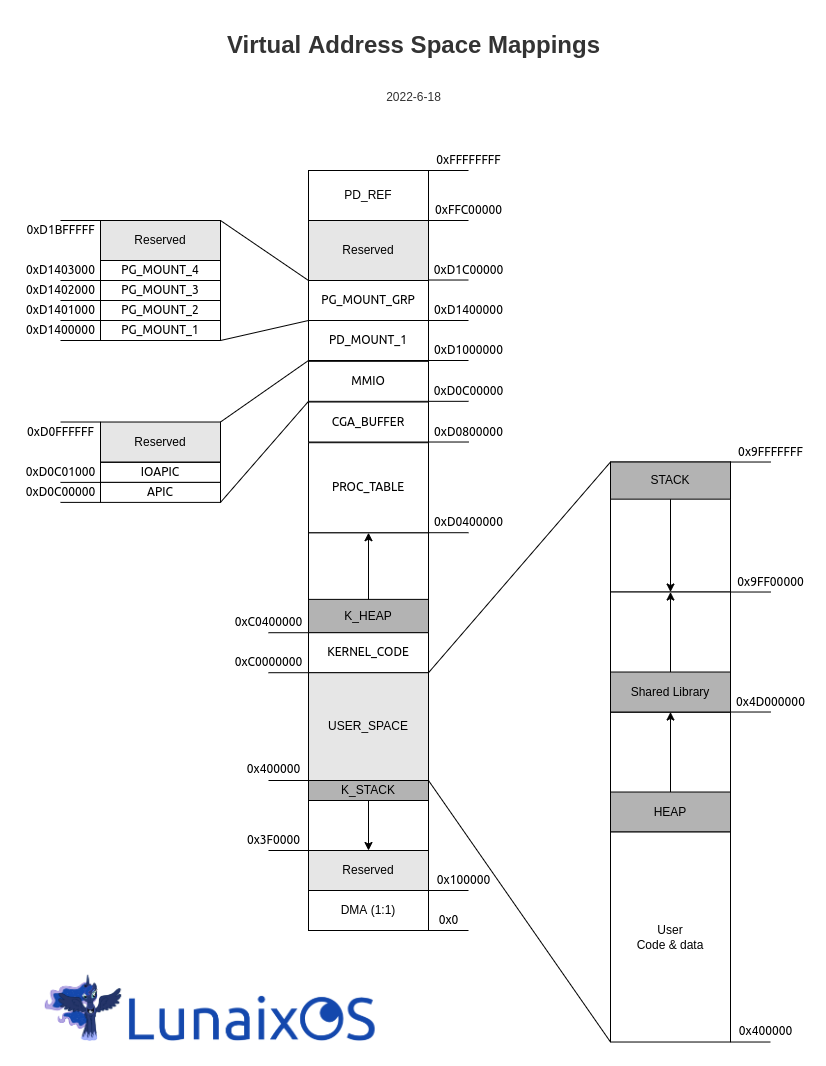
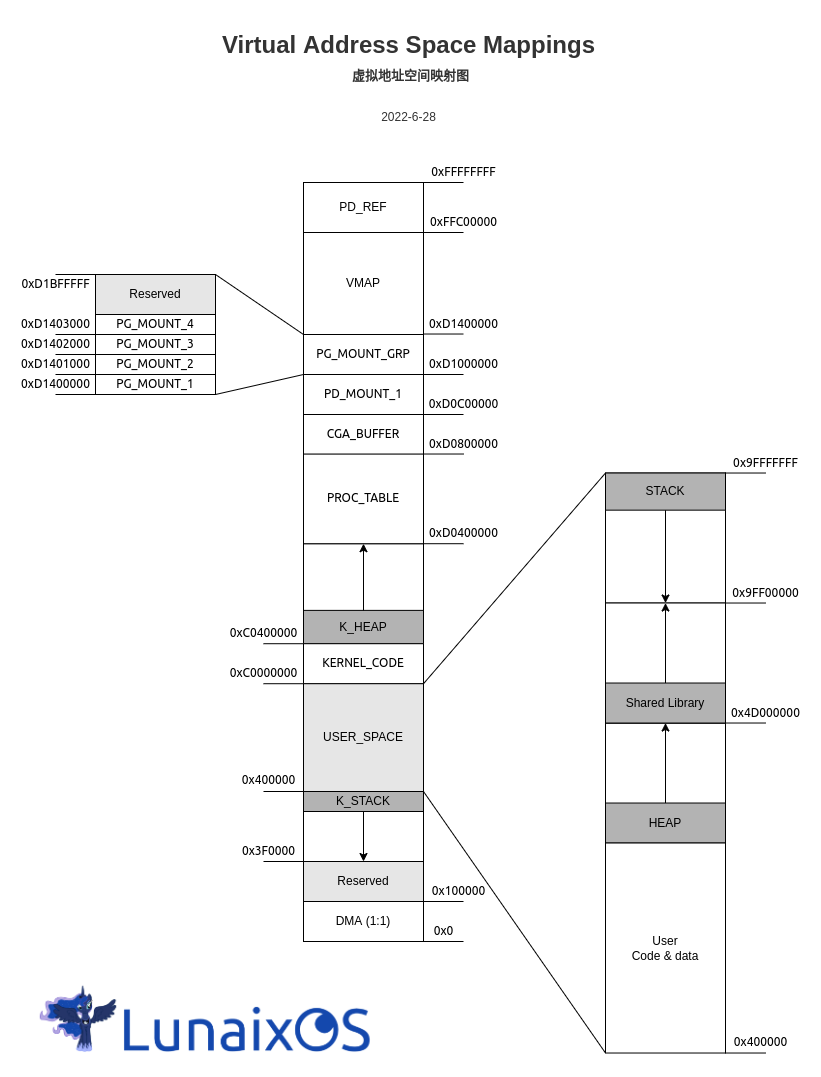
feat: vmm_vmap/ioremap/iounmap to make MMIO more flexible and easy fix: flush the screen when fault occurs. chore: update the memory map accordingly.

diff --git a/lunaix-os/kernel/mm/vmap.c b/lunaix-os/kernel/mm/vmap.c
@@ -1,0 +1,64 @@
+#include <lunaix/mm/pmm.h>
+#include <lunaix/mm/vmm.h>
+#include <lunaix/spike.h>
+
+#define VMAP_START PG_MOUNT_BASE + MEM_4MB
+#define VMAP_END PD_REFERENCED
+
+static uintptr_t start = VMAP_START;
+
+void*
+vmm_vmap(uintptr_t paddr, size_t size, pt_attr attr, pp_attr_t pattr)
+{
+    // next fit
+    assert_msg((paddr & 0xfff) == 0, "vmap: bad alignment");
+    size = ROUNDUP(size, PG_SIZE);
+
+    uintptr_t current_addr = start;
+    size_t examed_size = 0, wrapped = 0;
+    x86_page_table* pd = (x86_page_table*)L1_BASE_VADDR;
+
+    while (!wrapped || current_addr >= start) {
+        size_t l1inx = L1_INDEX(current_addr);
+        if (!(pd->entry[l1inx])) {
+            // empty 4mb region
+            examed_size += MEM_4MB;
+            current_addr = (current_addr & 0xffc00000) + MEM_4MB;
+        } else {
+            x86_page_table* ptd = (x86_page_table*)(L2_VADDR(l1inx));
+            size_t i = L2_INDEX(current_addr);
+            for (; i < 1024 && examed_size < size; i++) {
+                if (!ptd->entry[i]) {
+                    examed_size += PG_SIZE;
+                } else if (examed_size) {
+                    // found a discontinuity, start from beginning
+                    examed_size = 0;
+                    i++;
+                    break;
+                }
+            }
+            current_addr += i << 12;
+        }
+
+        if (examed_size >= size) {
+            goto done;
+        }
+
+        if (current_addr >= VMAP_END) {
+            wrapped = 1;
+            current_addr = VMAP_START;
+        }
+    }
+    panick("vmm: out of memory");
+
+done:
+    uintptr_t alloc_begin = current_addr - examed_size;
+    for (size_t i = 0; i < size; i += PG_SIZE) {
+        vmm_set_mapping(
+          PD_REFERENCED, alloc_begin + i, paddr + i, PG_PREM_RW, 0);
+        pmm_ref_page(KERNEL_PID, paddr + i);
+    }
+    start = alloc_begin + size;
+
+    return (void*)alloc_begin;
+}

diff --git a/lunaix-os/hal/apic.c b/lunaix-os/hal/apic.c
@@ -15,10 +15,13 @@
 
 #include <arch/x86/interrupts.h>
 
+#include <lunaix/mm/mmio.h>
 #include <lunaix/spike.h>
 #include <lunaix/syslog.h>
 
 LOG_MODULE("APIC")
+
+static volatile uintptr_t _apic_base;
 
 void
 apic_setup_lvts();
@@ -36,10 +39,12 @@ apic_init()
     // As we are going to use APIC, disable the old 8259 PIC
     pic_disable();
 
+    _apic_base = ioremap(__APIC_BASE_PADDR, 4096);
+
     // Hardware enable the APIC
     // By setting bit 11 of IA32_APIC_BASE register
-    // Note: After this point, you can't disable then re-enable it until a reset
-    // (i.e., reboot)
+    // Note: After this point, you can't disable then re-enable it until a
+    // reset (i.e., reboot)
     asm volatile("movl %0, %%ecx\n"
                  "rdmsr\n"
                  "orl %1, %%eax\n"
@@ -90,4 +95,22 @@ apic_setup_lvts()
     apic_write_reg(APIC_LVT_LINT0, LVT_ENTRY_LINT0(APIC_LINT0_IV));
     apic_write_reg(APIC_LVT_LINT1, LVT_ENTRY_LINT1);
     apic_write_reg(APIC_LVT_ERROR, LVT_ENTRY_ERROR(APIC_ERROR_IV));
+}
+
+void
+apic_done_servicing()
+{
+    *(unsigned int*)(_apic_base + APIC_EOI) = 0;
+}
+
+unsigned int
+apic_read_reg(unsigned int reg)
+{
+    return *(unsigned int*)(_apic_base + (reg));
+}
+
+void
+apic_write_reg(unsigned int reg, unsigned int val)
+{
+    *(unsigned int*)(_apic_base + reg) = val;
 }

diff --git a/lunaix-os/kernel/asm/x86/intr_routines.c b/lunaix-os/kernel/asm/x86/intr_routines.c
@@ -30,6 +30,7 @@ __print_panic_msg(const char* msg, const isr_param* param)
 void
 intr_routine_divide_zero(const isr_param* param)
 {
+    console_flush();
     __print_panic_msg("Divide by zero!", param);
     spin();
 }
@@ -40,7 +41,7 @@ intr_routine_general_protection(const isr_param* param)
     kprintf(KERROR "Pid: %d\n", __current->pid);
     kprintf(KERROR "Addr: %p\n", (&debug_resv)[0]);
     kprintf(KERROR "Expected: %p\n", (&debug_resv)[1]);
-    console_flush(0);
+    console_flush();
     __print_panic_msg("General Protection", param);
     spin();
 }
@@ -48,6 +49,7 @@ intr_routine_general_protection(const isr_param* param)
 void
 intr_routine_sys_panic(const isr_param* param)
 {
+    console_flush();
     __print_panic_msg((char*)(param->registers.edi), param);
     spin();
 }
@@ -55,6 +57,7 @@ intr_routine_sys_panic(const isr_param* param)
 void
 intr_routine_fallback(const isr_param* param)
 {
+    console_flush();
     __print_panic_msg("Unknown Interrupt", param);
     spin();
 }
@@ -76,6 +79,7 @@ intr_routine_apic_error(const isr_param* param)
     uint32_t error_reg = apic_read_reg(APIC_ESR);
     char buf[32];
     sprintf(buf, "APIC error, ESR=0x%x", error_reg);
+    console_flush();
     __print_panic_msg(buf, param);
     spin();
 }

diff --git a/lunaix-os/hal/ioapic.c b/lunaix-os/hal/ioapic.c
@@ -2,9 +2,12 @@
 #include <hal/acpi/acpi.h>
 #include <hal/ioapic.h>
 #include <lunaix/common.h>
+#include <lunaix/mm/mmio.h>
 
-#define IOAPIC_REG_SEL *((volatile uint32_t*)(MMIO_IOAPIC + IOAPIC_IOREGSEL))
-#define IOAPIC_REG_WIN *((volatile uint32_t*)(MMIO_IOAPIC + IOAPIC_IOWIN))
+#define IOAPIC_REG_SEL *((volatile uint32_t*)(_ioapic_base + IOAPIC_IOREGSEL))
+#define IOAPIC_REG_WIN *((volatile uint32_t*)(_ioapic_base + IOAPIC_IOWIN))
+
+static volatile uintptr_t _ioapic_base;
 
 uint8_t
 ioapic_get_irq(acpi_context* acpi_ctx, uint8_t old_irq);
@@ -15,6 +18,8 @@ ioapic_init()
     // Remapping the IRQs
 
     acpi_context* acpi_ctx = acpi_get_context();
+
+    _ioapic_base = ioremap(acpi_ctx->madt.ioapic->ioapic_addr & ~0xfff, 4096);
 
     // Remap the IRQ 8 (rtc timer's vector) to RTC_TIMER_IV in ioapic
     //       (Remarks IRQ 8 is pin INTIN8)

diff --git a/lunaix-os/kernel/proc0.c b/lunaix-os/kernel/proc0.c
@@ -115,16 +115,6 @@ init_platform()
     lock_reserved_memory();
 
     acpi_init(_k_init_mb_info);
-    uintptr_t ioapic_addr = acpi_get_context()->madt.ioapic->ioapic_addr;
-    pmm_mark_page_occupied(
-      KERNEL_PID, FLOOR(__APIC_BASE_PADDR, PG_SIZE_BITS), 0);
-    pmm_mark_page_occupied(KERNEL_PID, FLOOR(ioapic_addr, PG_SIZE_BITS), 0);
-
-    vmm_set_mapping(
-      PD_REFERENCED, MMIO_APIC, __APIC_BASE_PADDR, PG_PREM_RW, VMAP_NULL);
-    vmm_set_mapping(
-      PD_REFERENCED, MMIO_IOAPIC, ioapic_addr, PG_PREM_RW, VMAP_NULL);
-
     apic_init();
     ioapic_init();
     timer_init(SYS_TIMER_FREQUENCY_HZ);
@@ -136,6 +126,7 @@ init_platform()
     syscall_install();
 
     console_start_flushing();
+    console_flush();
 
     unlock_reserved_memory();
 

diff --git a/lunaix-os/includes/hal/apic.h b/lunaix-os/includes/hal/apic.h
@@ -66,8 +66,11 @@
 
 #define APIC_PRIORITY(cls, subcls) (((cls) << 4) | (subcls))
 
-#define apic_read_reg(reg) (*(uint32_t*)(MMIO_APIC + (reg)))
-#define apic_write_reg(reg, val) (*(uint32_t*)(MMIO_APIC + (reg)) = (val))
+unsigned int
+apic_read_reg(unsigned int reg);
+
+void
+apic_write_reg(unsigned int reg, unsigned int val);
 
 void
 apic_init();
@@ -77,10 +80,7 @@ apic_init();
  * This will issue a write action to EOI register.
  *
  */
-inline static void
-apic_done_servicing()
-{
-    apic_write_reg(APIC_EOI, 0);
-}
+void
+apic_done_servicing();
 
 #endif /* __LUNAIX_APIC_H */

diff --git a/lunaix-os/includes/lunaix/mm/vmm.h b/lunaix-os/includes/lunaix/mm/vmm.h
@@ -104,6 +104,19 @@ void*
 vmm_unmount_pd(uintptr_t mnt);
 
 void*
+vmm_ioremap(uintptr_t paddr, size_t size);
+
+void*
 vmm_next_free(uintptr_t start, int options);
+
+/**
+ * @brief 将连续的物理地址空间映射到内核虚拟地址空间
+ *
+ * @param paddr 物理地址空间的基地址
+ * @param size 物理地址空间的大小
+ * @return void*
+ */
+void*
+vmm_vmap(uintptr_t paddr, size_t size, pt_attr attr, uint32_t pattr);
 
 #endif /* __LUNAIX_VMM_H */

diff --git a/lunaix-os/kernel/mm/mmio.c b/lunaix-os/kernel/mm/mmio.c
@@ -1,0 +1,18 @@
+#include <lunaix/mm/mmio.h>
+#include <lunaix/mm/pmm.h>
+#include <lunaix/mm/vmm.h>
+
+void*
+ioremap(uintptr_t paddr, uint32_t size)
+{
+    return vmm_vmap(paddr, size, PG_PREM_RW, PP_FGPERSIST);
+}
+
+void*
+iounmap(uintptr_t vaddr, uint32_t size)
+{
+    for (size_t i = 0; i < size; i += PG_SIZE) {
+        uintptr_t paddr = vmm_del_mapping(PD_REFERENCED, vaddr + i);
+        pmm_free_page(KERNEL_PID, paddr);
+    }
+}

diff --git a/lunaix-os/includes/lunaix/mm/page.h b/lunaix-os/includes/lunaix/mm/page.h
@@ -99,7 +99,7 @@ extern void __pg_mount_point;
 
 /* 四个页挂载点，两个页目录挂载点： 用于临时创建&编辑页表 */
 #define PG_MOUNT_RANGE(l1_index) (701 <= l1_index && l1_index <= 703)
-#define PD_MOUNT_1 (MMIO_BASE + MEM_4MB)
+#define PD_MOUNT_1 (VGA_BUFFER_VADDR + MEM_4MB)
 #define PG_MOUNT_BASE (PD_MOUNT_1 + MEM_4MB)
 #define PG_MOUNT_1 (PG_MOUNT_BASE)
 #define PG_MOUNT_2 (PG_MOUNT_BASE + 0x1000)

diff --git a/lunaix-os/includes/lunaix/common.h b/lunaix-os/includes/lunaix/common.h
@@ -20,10 +20,6 @@
 #define VGA_BUFFER_PADDR 0xB8000
 #define VGA_BUFFER_SIZE 4096
 
-#define MMIO_BASE (VGA_BUFFER_VADDR + MEM_4MB)
-#define MMIO_APIC (MMIO_BASE)
-#define MMIO_IOAPIC (MMIO_BASE + 4096)
-
 #define KCODE_SEG 0x08
 #define KDATA_SEG 0x10
 #define UCODE_SEG 0x1B

diff --git a/lunaix-os/includes/lunaix/mm/mmio.h b/lunaix-os/includes/lunaix/mm/mmio.h
@@ -1,0 +1,12 @@
+#ifndef __LUNAIX_MMIO_H
+#define __LUNAIX_MMIO_H
+
+#include <stdint.h>
+
+void*
+ioremap(uintptr_t paddr, uint32_t size);
+
+void*
+iounmap(uintptr_t vaddr, uint32_t size);
+
+#endif /* __LUNAIX_MMIO_H */

diff --git a/lunaix-os/kernel/lxconsole.c b/lunaix-os/kernel/lxconsole.c
@@ -80,7 +80,7 @@ console_view_down()
 }
 
 void
-console_flush(void* arg)
+console_flush()
 {
     if (mutex_on_hold(&lx_console.buffer.lock)) {
         return;
